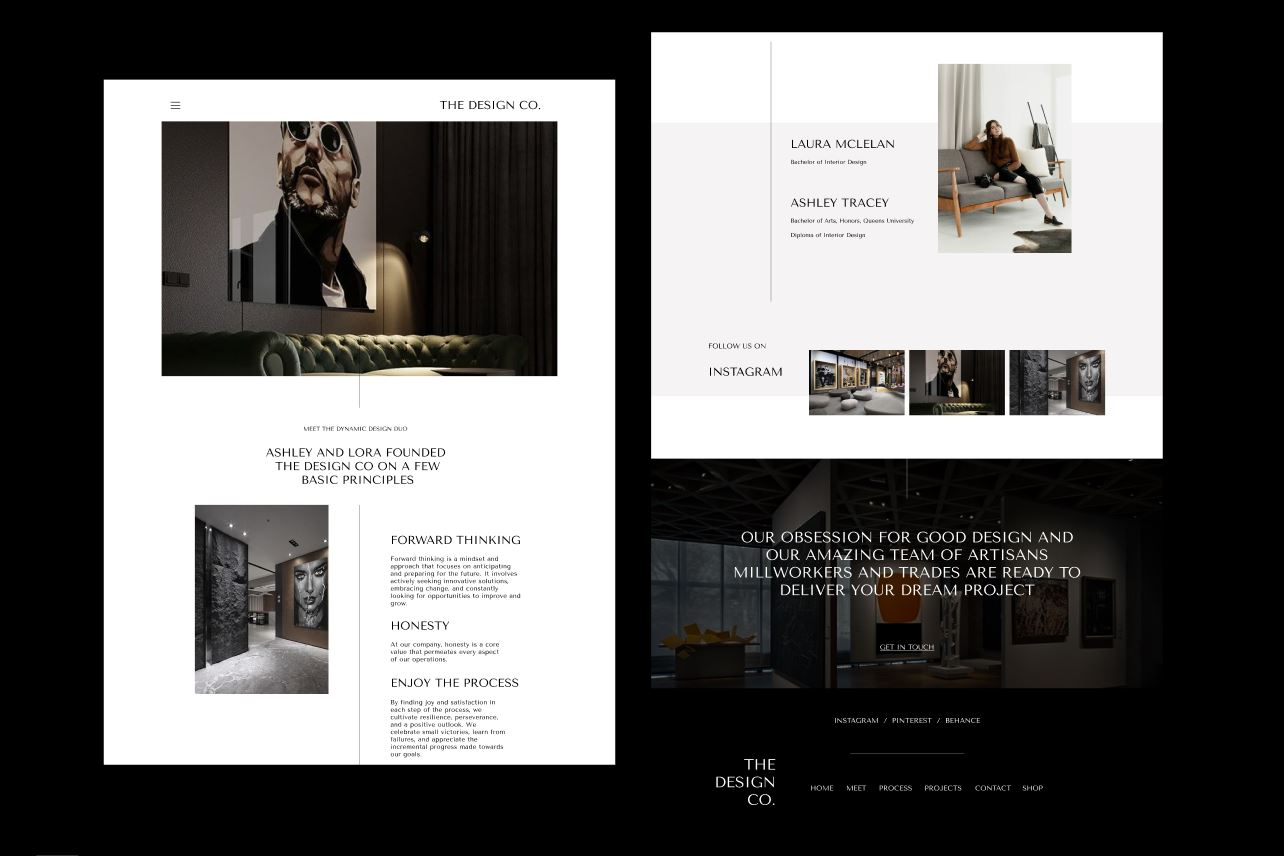
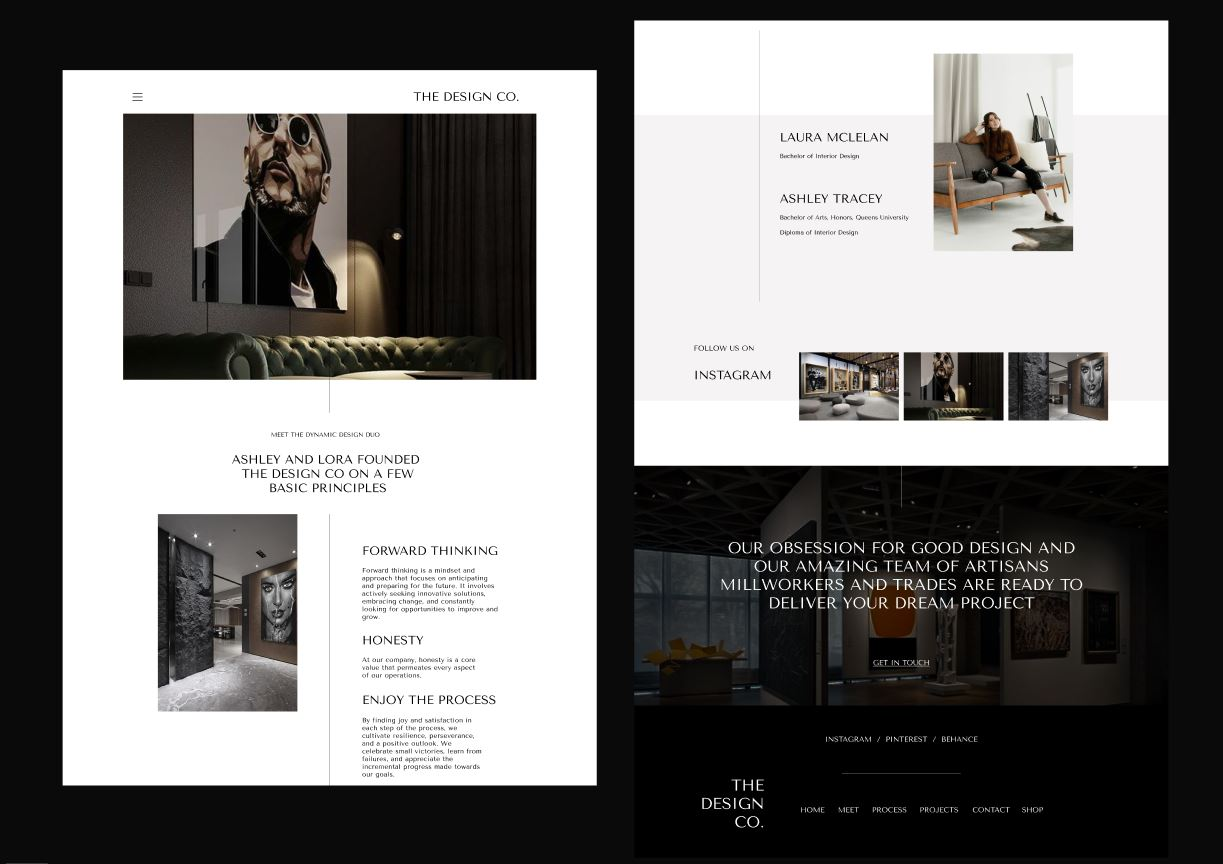
new version

Changed region(s): [[0.0311, 0.0, 0.9632, 0.9112], [0.5593, 0.8808, 0.8389, 0.972]]

diff --git a/src/pages/Work.js b/src/pages/Work.js
@@ -6,12 +6,14 @@ import { faCirclePlay } from '@fortawesome/free-solid-svg-icons';
 import AOS from "aos";
 import "aos/dist/aos.css";
 import { Link } from "react-router-dom";
-import One from "../images/Brixon-Work.JPG";
+import One from "../images/Brixton-Work.JPG";
 import Five from "../images/Design-Work.JPG";
 import Two from "../images/Lion-new-version.JPG";
 import Three from "../images/Joker-new-version.JPG";
 import Four from "../images/Banking-new-version.JPG";
-import Six from "../images/Coffee-Work.JPG";
+import Six from "../images/space.JPG";
+import Seven from "../images/Ok.JPG";
+
 import { Helmet } from 'react-helmet-async';
 import ContactForm from './ContactForm';
 
@@ -86,11 +88,24 @@ const Work = () => {
                             [DESIGN] [WEB] 2023
                         </h2>
                         <h1>
-                            BALTE COFFEE
+                            Ok DRINK
                         </h1>
                     </div>
                     <div className="col-lg-7">
-                        <img className="img-fluid" src={Six} alt="Coffee Shop" />
+                        <img className="img-fluid" src={Seven} alt="Ok Drink" />
+                    </div>
+                </div>
+                <div className="row">
+                    <div className="col-lg-5 align-middle">
+                        <h2>
+                            [DESIGN] [WEB] 2023
+                        </h2>
+                        <h1>
+                            INTERIOR DESIGN
+                        </h1>
+                    </div>
+                    <div className="col-lg-7">
+                        <img className="img-fluid" src={Six} alt="Space Design" />
                     </div>
                 </div>
                 <div className="row">

diff --git a/src/App.css b/src/App.css
@@ -135,7 +135,7 @@ p {
     padding-bottom: 50px;
     padding-left: 100px;
     padding-right: 100px;
-    background-color: #0A0A0A;
+    background-color: #000;
     color:#fff;
 
 }
@@ -160,12 +160,12 @@ p {
     text-decoration: none;
     color: #fff;
     text-transform: uppercase;
-    opacity: 15%;
+    opacity: 100%;
     top: 25px;
 
 
 }.new-services .about-us .col-lg-7 p{
-    opacity: 15%;
+    opacity: 100%;
 }
 .new-services {
     position: relative;
@@ -191,7 +191,7 @@ p {
     padding-top: 50px;
     padding-left: 100px;
     padding-right: 100px;
-    background-color: #0A0A0A;
+    background-color: #000;
     color: #fff;
 }
 
@@ -223,7 +223,7 @@ p {
 
 .new-services .our-services p {
     width: 90%;
-    opacity: 15%;
+    opacity: 100%;
 }
 
 .new-services .our-services button {
@@ -256,28 +256,26 @@ p {
 .new-item td {
     font-size: 3rem;
     color: #fff;
-    opacity: 10%;
+    opacity: 100%;
     font-weight: 900;
     padding-top: 40px;
     padding-bottom: 40px;
+    text-transform: uppercase;
 
 
 }
 
 .new-item tr:hover {
-    background-color: #272727;
+    background-color: #0a0a0a;
     opacity: 20%;
     cursor: pointer;
 
 }
 
-
-
-
 .creative {
     position: relative;
     margin-top: 70px;
-    background-color: #272727;
+    background-color: #0a0a0a;
     padding: 100px;
     opacity: 30%;
 }
@@ -471,11 +469,11 @@ img {
     padding-bottom: 50px;
     padding-left: 100px;
     padding-right: 100px;
-    background-color: #0A0A0A;
+    background-color: #000;
 }
 
 .work .col-lg-7{
-    opacity: 15%;
+    opacity: 100%;
 }
 
 .work h1 {
@@ -493,7 +491,7 @@ img {
 }
 /* New Contact */
 .new-contact {
-    background-color: #0a0a0a;
+    background-color: #000;
     padding-left: 100px;
     padding-right: 100px;
 }

diff --git a/src/style/Services.css b/src/style/Services.css
@@ -4,7 +4,7 @@
 }
 
 .section{
-    background-color: #0a0a0a;
+    background-color: #000;
     color: #fff;
     margin-top: 120px;
     padding-left: 0px;
@@ -27,13 +27,14 @@
     position: relative;
     padding-left: 100px;
     padding-right: 50px;
-    opacity: 15%;
 }
 
 .data h1{
     font-size: 5.2rem;
     font-weight: bold;
     text-transform: uppercase;
+    opacity: 15%;
+
 }
 
 section .btn {
@@ -51,6 +52,7 @@ section .btn {
 .section .progress {
     border-radius: 0;
     height: 7px;
+    opacity: 50%;
 }
 
 .section .progress-sec {
@@ -61,7 +63,7 @@ section .btn {
 .section  h2 {
     font-size: 2rem;
     color: #fff;
-    opacity: 100%;
+    opacity: 15%;
     
 }
 
@@ -72,7 +74,7 @@ section .btn {
 /* Services Cards */
 
 .services-list{
-    background-color: #0a0a0a;
+    background-color: #000;
     padding-left: 100px;
     padding-right: 100px;
    
@@ -110,7 +112,7 @@ section .btn {
 
 
 .service-why{
-    background-color: #0a0a0a;
+    background-color: #000;
     padding-top: 50px;
     padding-bottom: 50px;
     padding-left: 100px;
@@ -118,19 +120,19 @@ section .btn {
     
 
 }
-.container-fluid .col-lg-12{
-    opacity: 15%;
-}
+
 .container-fluid .col-lg-12 h1{
     font-size: 5.2rem;
     font-weight: bold;
     color:#fff;
+    opacity: 15%;
+
 }
 .container-fluid .col-lg-12 p{
     color:#fff;
 }
 .container-fluid .col-lg-12 tr:hover {
-    background-color: #272727;
+    background-color: #0a0a0a;
     opacity: 20%;
     cursor: pointer;
 
@@ -139,7 +141,7 @@ section .btn {
 .container-fluid tbody td{
     font-size: 3rem;
     color:#fff;
-    text-transform: capitalize;
+    text-transform: uppercase;
     font-weight: 900;
     padding-top: 40px;
     padding-bottom: 40px;

diff --git a/src/pages/Home.js b/src/pages/Home.js
@@ -212,9 +212,7 @@ const Home = () => {
                         className="mySwiper"
                         data-aos="zoom-in"
                     >
-                        <SwiperSlide><img className="img-fluid" src={Six} /></SwiperSlide>
-                        <SwiperSlide><img className="img-fluid" src={Seven} /></SwiperSlide>
-                        <SwiperSlide><img className="img-fluid" src={One} /></SwiperSlide>
+                        
                         <SwiperSlide><img className="img-fluid" src={Two} /></SwiperSlide>
                         <SwiperSlide><img className="img-fluid" src={Four} /></SwiperSlide>
                         <SwiperSlide><img className="img-fluid" src={Five} /></SwiperSlide>

diff --git a/src/style/About.css b/src/style/About.css
@@ -2,7 +2,7 @@
 
 .about{
     margin-top: 120px;
-    background-color: #0a0a0a;
+    background-color: #000;
  }
 
 .about .row{
@@ -27,7 +27,7 @@
 }
 .about .row .col-lg-6 p{
     font-size: 1.3rem;
-    opacity: 15%;
+    opacity: 100%;
     width: 90%;
 }
 
@@ -36,7 +36,7 @@
 .core-values {
 
     padding-bottom: 100px;
-    background-color: #0a0a0a;
+    background-color: #000;
     padding-left: 100px;
     padding-right: 100px;
 }
@@ -58,12 +58,12 @@
     padding-bottom: 40px;
     font-weight: 900;
     color: #fff;
-    opacity: 15%;
+    opacity: 100%;
 
 
 }
 .core-values tr:hover {
-    background-color: #272727;
+    background-color: #0a0a0a;
     opacity: 30%;
     cursor: pointer;
 

diff --git a/src/style/Contact.css b/src/style/Contact.css
@@ -5,12 +5,12 @@
     margin-top: 130px;
     padding-top: 100px;
     padding-bottom: 100px;
-    background-color: #0a0a0a;
+    background-color: #000;
     padding-left: 100px;
 }
 
 .contact-formulaire .row {
-    opacity: 15%;
+    opacity: 100%;
 
 }
 
@@ -18,6 +18,7 @@
     font-size: 5.2rem;
     font-weight: bold;
     color: #fff;
+    opacity: 15%;
 }
 .contact-formulaire p{
     color: #fff;
@@ -73,6 +74,7 @@ form .btn:hover{
 .contact-formulaire .row .col-lg-6 .info-contact{
     background-color: #101010;
     padding: 50px;
+    opacity: 15%;
     
   
   margin-left: 100px;

diff --git a/src/style/Work.css b/src/style/Work.css
@@ -22,6 +22,9 @@
 
 
 }
+.portfolio .row .title h1{
+    opacity: 15%;
+}
 .portfolio .row .col-lg-7{
     opacity: 100%;
 }
@@ -31,11 +34,12 @@
 
 .portfolio .row .col-lg-5 h1{
     font-size: 4rem;
+    opacity: 100%;
    
 }
-.portfolio  h1, h2{
+.portfolio   h2{
     color: #fff;
-    opacity: 15%;
+    opacity: 100%;
 
 }
 
@@ -48,7 +52,9 @@
 .portfolio .title h1{
     font-size: 5.2rem;
     font-weight: bold;
+    opacity: 15%;
 }
+
 
 
 .portfolio .col-sm h2 {

diff --git a/src/Footer.css b/src/Footer.css
@@ -1,7 +1,7 @@
 /*Footer*/
 .footer{
     padding-top: 50px;
-    background-color: #0a0a0a;
+    background-color: #000;
     color: #fff;
     padding-left: 100px;
     padding-right: 100px;
